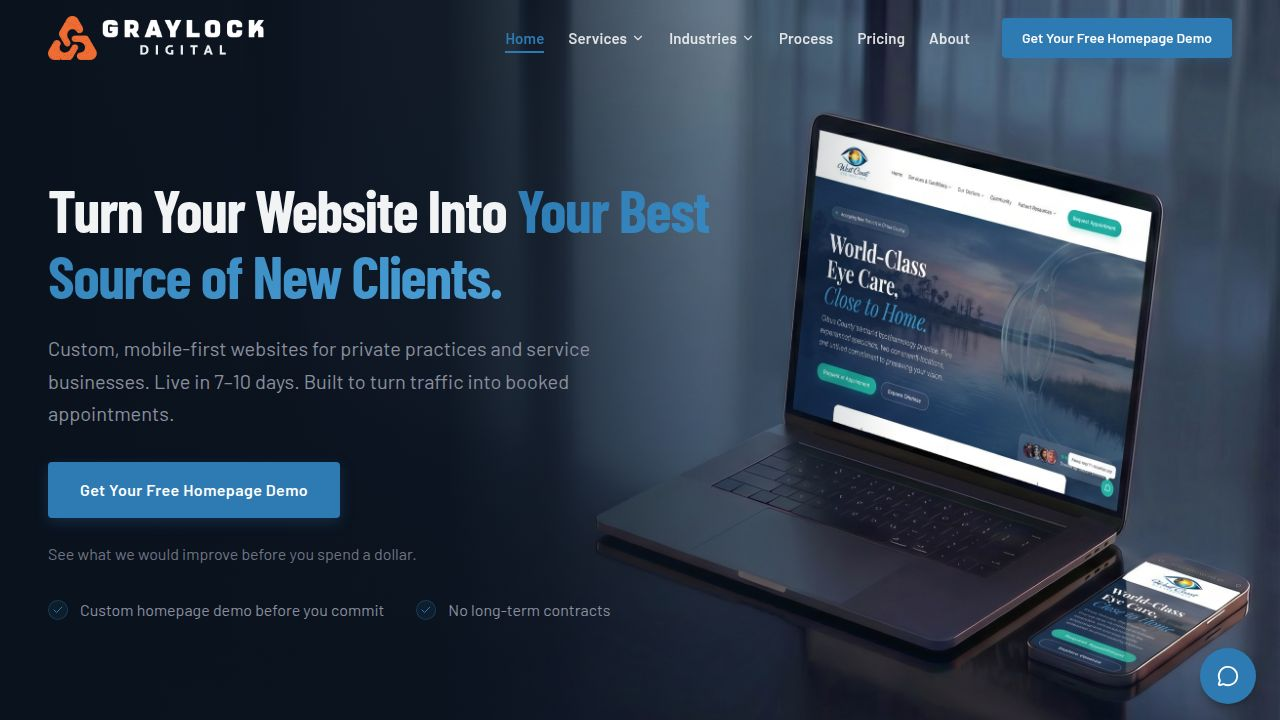
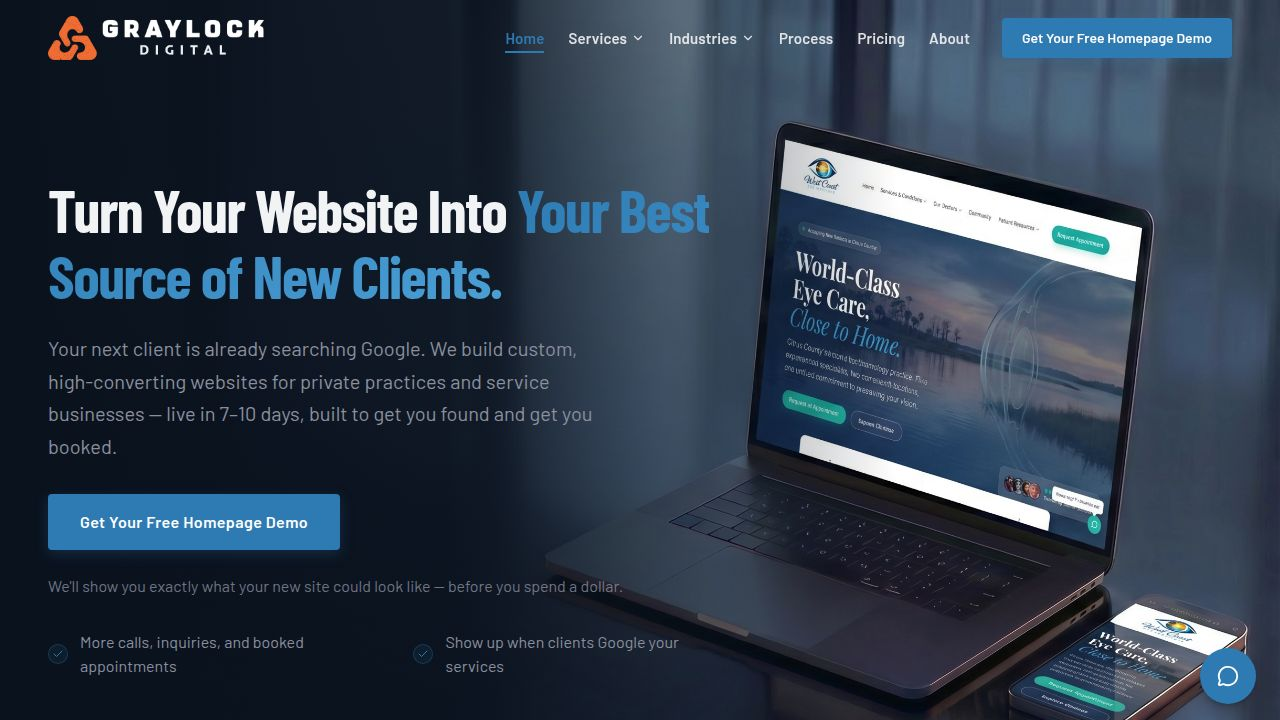
Add a new funnel page for home builders to the website
Create a new `/home-builders` route and page component, update the sitemap, and adjust the SEO meta tags and page structure to match the new funnel page design.

Replit-Commit-Author: Agent
Replit-Commit-Session-Id: e282408d-3e60-4972-9403-d1dc703864f9
Replit-Commit-Checkpoint-Type: full_checkpoint
Replit-Commit-Event-Id: ccece813-116a-4ba4-84c7-a6d7280494ca
Replit-Commit-Screenshot-Url: https://storage.googleapis.com/screenshot-production-us-central1/5fb36708-9d6f-4780-af24-4f9ef70a1519/e282408d-3e60-4972-9403-d1dc703864f9/XtMS7Mx
Replit-Helium-Checkpoint-Created: true

diff --git a/artifacts/web/src/pages/HomeBuildersFunnel.tsx b/artifacts/web/src/pages/HomeBuildersFunnel.tsx
@@ -1,0 +1,234 @@
+import { SEO } from "@/components/SEO";
+import { ScrollReveal } from "@/components/ui/ScrollReveal";
+import { ResponsiveImage } from "@/components/ui/ResponsiveImage";
+import {
+  Monitor,
+  TrendingDown,
+  EyeOff,
+  ArrowRight,
+  Check,
+  Calendar,
+} from "lucide-react";
+
+const CALENDLY_URL = "";
+
+const URGENCY_COPY = "May Only: $999 Setup Fee Waived — Offer Ends May 31.";
+
+function scrollToBooking(e: React.MouseEvent<HTMLAnchorElement>) {
+  e.preventDefault();
+  const el = document.getElementById("book-demo");
+  if (el) el.scrollIntoView({ behavior: "smooth", block: "start" });
+}
+
+export default function HomeBuildersFunnel() {
+  return (
+    <>
+      <SEO
+        title="Custom Websites for Home Builders | Graylock Digital"
+        description="Stop losing bids to bad design. Get a free custom homepage demo for your home building business. No commitment required."
+        url="https://graylockdigital.com/home-builders"
+      />
+
+      {/* Section 1 — Sticky Urgency Banner */}
+      <div className="sticky top-0 z-50 bg-[#E85D26] text-white text-center text-sm md:text-base font-sans font-semibold px-4 py-2.5 shadow-md">
+        {URGENCY_COPY}
+      </div>
+
+      {/* Section 2 — Hero */}
+      <section className="bg-navy px-6 md:px-12 py-14 md:py-24">
+        <div className="max-w-6xl mx-auto grid grid-cols-1 lg:grid-cols-2 gap-12 lg:gap-16 items-center">
+          <div>
+            <p className="text-[#E85D26] text-xs md:text-sm font-sans font-bold uppercase tracking-widest mb-4">
+              Attention Custom Home Builders
+            </p>
+            <h1 className="text-4xl md:text-5xl lg:text-6xl font-display text-white leading-tight mb-6">
+              We&rsquo;ll Design a Custom Homepage for Your Home Building Business —{" "}
+              <span className="text-[#E85D26]">Free, Before You Spend a Dollar.</span>
+            </h1>
+            <p className="text-stone text-lg md:text-xl font-sans leading-relaxed mb-6">
+              Stop losing high-end bids to competitors with better websites. Book a
+              15-minute demo and we&rsquo;ll show you exactly what a conversion-focused
+              website should look like for your business.
+            </p>
+            <div className="bg-[#E85D26]/10 border border-[#E85D26]/30 rounded-lg px-5 py-4 mb-8">
+              <p className="text-white font-sans text-base md:text-lg font-semibold leading-snug">
+                <span className="text-[#E85D26] font-bold">Limited May Offer:</span>{" "}
+                $999 Setup Fee Waived — Pay Only $299/Month When Your Build Starts.
+              </p>
+            </div>
+            <a
+              href="#book-demo"
+              onClick={scrollToBooking}
+              className="inline-flex items-center justify-center bg-[#2e7bb4] text-white font-sans font-bold text-base md:text-lg px-8 py-4 rounded-lg hover:bg-[#246290] transition-all duration-200 shadow-lg hover:shadow-xl hover:-translate-y-0.5 w-full sm:w-auto text-center"
+            >
+              Book Your Free Custom Demo
+              <ArrowRight size={20} className="ml-2" />
+            </a>
+            <p className="text-stone text-sm font-sans mt-4">
+              15-minute call &middot; Custom homepage demo &middot; No obligation.
+            </p>
+          </div>
+
+          <div className="order-first lg:order-last">
+            <ScrollReveal>
+              <div className="rounded-xl overflow-hidden shadow-2xl border border-gunmetal/40 bg-charcoal">
+                <ResponsiveImage
+                  src={`${import.meta.env.BASE_URL}mockup-laptop-after.png`}
+                  alt="Modern home builder website displayed on a desktop and mobile device"
+                  className="w-full h-auto"
+                />
+              </div>
+            </ScrollReveal>
+          </div>
+        </div>
+      </section>
+
+      {/* Section 3 — Problem / Agitation */}
+      <section className="bg-[#f7fafc] px-6 md:px-12 py-16 md:py-24">
+        <div className="max-w-6xl mx-auto">
+          <ScrollReveal>
+            <h2 className="text-3xl md:text-4xl font-display text-[#1a202c] text-center mb-12 md:mb-16 leading-tight">
+              Why Your Current Website is Costing You Jobs
+            </h2>
+          </ScrollReveal>
+
+          <div className="grid grid-cols-1 md:grid-cols-3 gap-8 md:gap-10">
+            {[
+              {
+                icon: Monitor,
+                title: "It Looks Like 2012",
+                copy: "You build million-dollar homes, but your website makes you look like a budget contractor. High-end clients judge your quality by your digital presence.",
+              },
+              {
+                icon: TrendingDown,
+                title: "It Doesn't Convert",
+                copy: "Traffic doesn't matter if visitors leave without contacting you. Your site is a digital brochure, not a lead-generation machine.",
+              },
+              {
+                icon: EyeOff,
+                title: "It's Invisible on Google",
+                copy: "When someone searches for \u201Ccustom home builders near me,\u201D your competitors show up first. You are relying entirely on referrals.",
+              },
+            ].map((item, i) => {
+              const Icon = item.icon;
+              return (
+                <ScrollReveal key={item.title} delay={i * 100}>
+                  <div className="bg-white rounded-xl p-7 md:p-8 shadow-md hover:shadow-lg transition-shadow border border-gray-100 h-full">
+                    <div className="w-12 h-12 rounded-lg bg-[#E85D26]/10 border border-[#E85D26]/20 flex items-center justify-center mb-5">
+                      <Icon size={24} className="text-[#E85D26]" />
+                    </div>
+                    <h3 className="text-xl md:text-2xl font-display text-[#1a202c] mb-3 leading-tight">
+                      {item.title}
+                    </h3>
+                    <p className="text-[#4a5568] font-sans text-base leading-relaxed">
+                      {item.copy}
+                    </p>
+                  </div>
+                </ScrollReveal>
+              );
+            })}
+          </div>
+        </div>
+      </section>
+
+      {/* Section 4 — Proof / Before & After */}
+      <section className="bg-navy px-6 md:px-12 py-16 md:py-24">
+        <div className="max-w-6xl mx-auto">
+          <ScrollReveal>
+            <h2 className="text-3xl md:text-4xl font-display text-white text-center mb-12 md:mb-16 leading-tight">
+              The Graylock Difference
+            </h2>
+          </ScrollReveal>
+
+          <div className="grid grid-cols-1 md:grid-cols-2 gap-6 md:gap-8">
+            <ScrollReveal>
+              <div className="space-y-3">
+                <div className="rounded-xl overflow-hidden border border-gunmetal/60 bg-charcoal shadow-lg">
+                  <ResponsiveImage
+                    src={`${import.meta.env.BASE_URL}portfolio-before-1.png`}
+                    alt="Outdated and generic home builder website"
+                    className="w-full h-auto"
+                  />
+                </div>
+                <p className="text-stone font-sans text-center text-sm md:text-base font-semibold uppercase tracking-wider">
+                  Outdated &amp; Generic
+                </p>
+              </div>
+            </ScrollReveal>
+
+            <ScrollReveal delay={150}>
+              <div className="space-y-3">
+                <div className="rounded-xl overflow-hidden border-2 border-[#E85D26]/60 bg-charcoal shadow-2xl">
+                  <ResponsiveImage
+                    src={`${import.meta.env.BASE_URL}portfolio-after-1.png`}
+                    alt="Custom and conversion-focused Graylock-built website"
+                    className="w-full h-auto"
+                  />
+                </div>
+                <p className="text-[#E85D26] font-sans text-center text-sm md:text-base font-bold uppercase tracking-wider">
+                  Custom &amp; Conversion-Focused
+                </p>
+              </div>
+            </ScrollReveal>
+          </div>
+        </div>
+      </section>
+
+      {/* Section 5 — Calendar / Booking */}
+      <section id="book-demo" className="bg-white px-6 md:px-12 py-16 md:py-24 scroll-mt-16">
+        <div className="max-w-3xl mx-auto text-center">
+          <ScrollReveal>
+            <h2 className="text-3xl md:text-4xl font-display text-[#1a202c] mb-4 leading-tight">
+              Claim Your Free Custom Homepage Demo
+            </h2>
+            <p className="text-[#4a5568] text-lg font-sans leading-relaxed mb-4">
+              Pick a time below for a brief 15-minute discovery call. We&rsquo;ll learn
+              about your business and start designing your free custom homepage
+              concept.
+            </p>
+            <p className="text-[#E85D26] font-sans font-bold text-base md:text-lg mb-10">
+              Reminder: Book before May 31 to lock in the $0 setup fee.
+            </p>
+          </ScrollReveal>
+
+          {CALENDLY_URL ? (
+            <div className="rounded-xl overflow-hidden border border-gray-200 shadow-lg mb-10 bg-white">
+              <iframe
+                src={CALENDLY_URL}
+                width="100%"
+                height="700"
+                frameBorder="0"
+                title="Book your free custom homepage demo"
+                className="w-full block"
+              />
+            </div>
+          ) : (
+            <div className="rounded-xl border-2 border-dashed border-gray-300 bg-gray-50 px-6 py-10 md:py-14 mb-10">
+              <Calendar size={36} className="text-[#2e7bb4] mx-auto mb-4" />
+              <p className="text-[#1a202c] font-sans font-semibold text-lg mb-2">
+                Calendar embed will appear here.
+              </p>
+              <p className="text-[#4a5568] font-sans text-sm max-w-md mx-auto">
+                Add your Calendly or Cal.com URL to the <code className="bg-gray-200 px-1.5 py-0.5 rounded text-xs">CALENDLY_URL</code> constant in
+                <code className="bg-gray-200 px-1.5 py-0.5 rounded text-xs ml-1">HomeBuildersFunnel.tsx</code> to enable booking.
+              </p>
+            </div>
+          )}
+
+          <div className="flex flex-col sm:flex-row justify-center items-center gap-4 sm:gap-8 text-[#1a202c] font-sans text-sm md:text-base font-semibold">
+            {[
+              "7–10 Day Delivery",
+              "100% U.S.-Based Team",
+              "No Long-Term Contracts",
+            ].map((item) => (
+              <div key={item} className="flex items-center gap-2">
+                <Check className="text-[#E85D26] flex-shrink-0" size={18} />
+                <span>{item}</span>
+              </div>
+            ))}
+          </div>
+        </div>
+      </section>
+    </>
+  );
+}

diff --git a/artifacts/web/src/App.tsx b/artifacts/web/src/App.tsx
@@ -25,6 +25,7 @@ import Sitemap from "@/pages/Sitemap";
 import AccountantsFunnel from "@/pages/AccountantsFunnel";
 import HomeBuildersPlaybook from "@/pages/HomeBuildersPlaybook";
 import HomeBuildersPlaybookThankYou from "@/pages/HomeBuildersPlaybookThankYou";
+import HomeBuildersFunnel from "@/pages/HomeBuildersFunnel";
 import NotFound from "@/pages/not-found";
 
 const AccountantsIndustry = lazy(() => import("@/pages/industries/Accountants"));
@@ -120,6 +121,7 @@ function App() {
               <Switch>
                 <Route path="/home-builders-playbook" component={HomeBuildersPlaybook} />
                 <Route path="/home-builders-playbook/thank-you" component={HomeBuildersPlaybookThankYou} />
+                <Route path="/home-builders" component={HomeBuildersFunnel} />
                 <Route>
                   <Layout>
                     <Router />

diff --git a/artifacts/web/src/pages/Sitemap.tsx b/artifacts/web/src/pages/Sitemap.tsx
@@ -97,6 +97,7 @@ const GROUPS: SitemapGroup[] = [
     intro: "Free guides and industry-specific funnels.",
     links: [
       { label: "Home Builders Playbook", path: "/home-builders-playbook", icon: BookOpen, description: "Free guide for custom home builders." },
+      { label: "Home Builders Demo", path: "/home-builders", icon: HomeIcon, description: "Free custom homepage demo for home builders." },
       { label: "Accountants Funnel", path: "/accountants", icon: Calculator, description: "Targeted landing page for accounting firms." },
     ],
   },